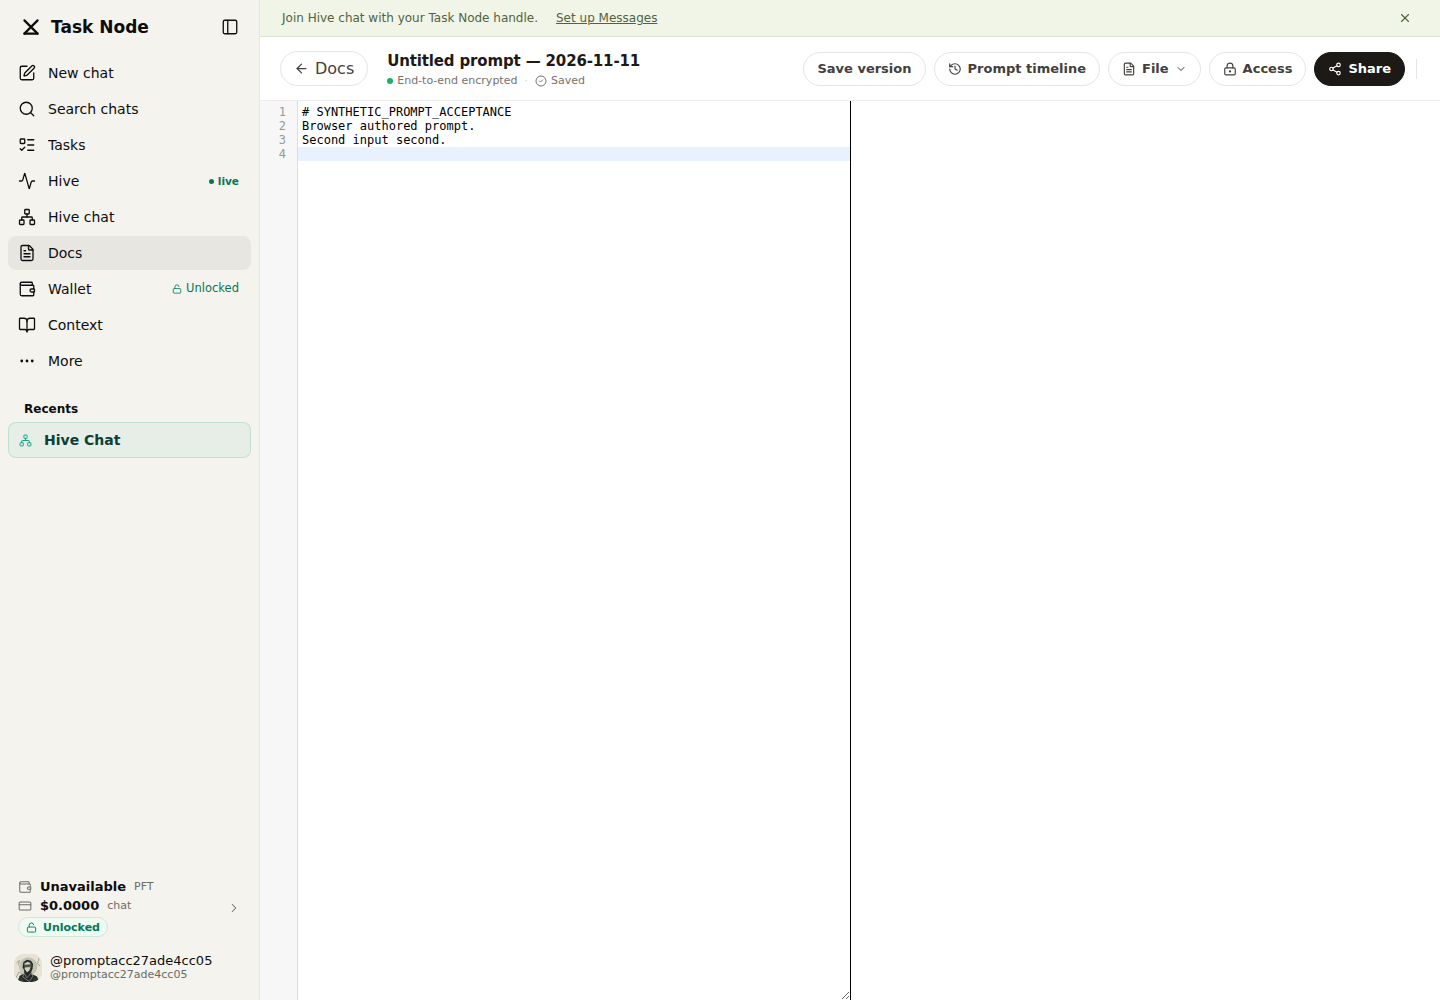
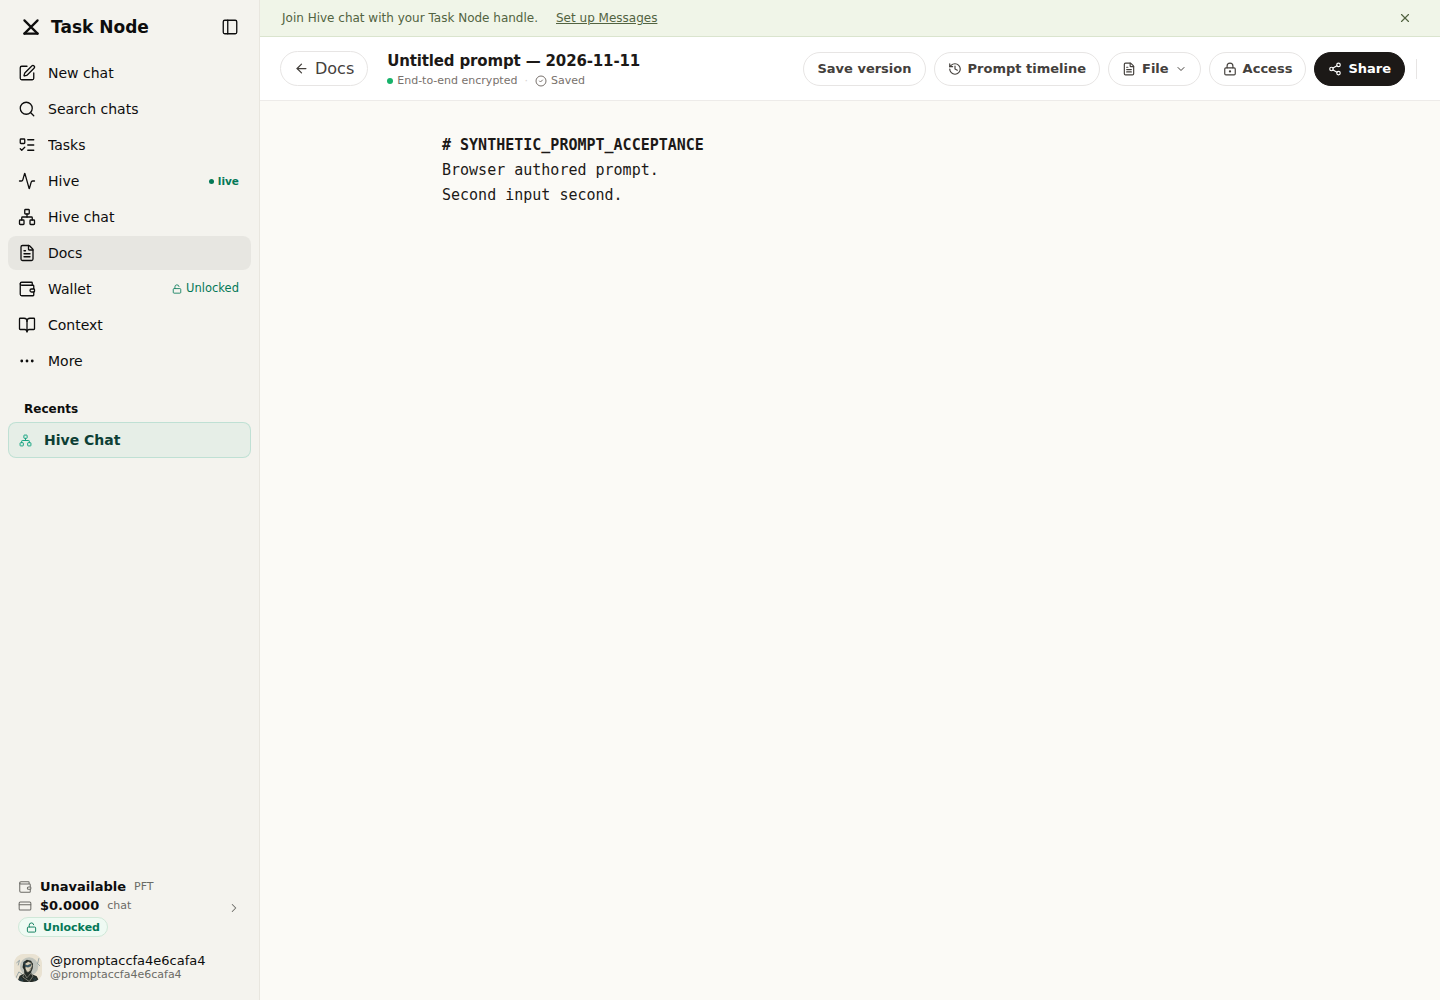
Make prompt pairing, timeline and activity usable end to end
- Add a local prompt_pair tool so pairing is one line pasted to the agent;
  the installer never puts a tasknode command on PATH, so the old
  terminal command could not be run. Unpaired tools now say what to do.
- Timeline numbers saved versions, shows who saved them (you or your
  agent) and opens the text inline.
- Activity shows time spent prompting in seconds, minutes and hours.
- Fingerprints are grouped for reading in the browser and terminal;
  devices show when they connected.
- Prompts outside the Prompts tab no longer claim history is unavailable.

Changed region(s): [[0.1875, 0.093, 0.5, 0.217], [0.0938, 0.93, 0.125, 0.992]]

diff --git a/src/features/docs-library/PromptTimeline.jsx b/src/features/docs-library/PromptTimeline.jsx
@@ -1,11 +1,12 @@
 import { useEffect, useState } from "react";
 import { History, RefreshCw, X } from "lucide-react";
+import { formatActiveTime, formatEventTime } from "./prompt-format";
 import { readPromptHistory } from "./prompt-library";
 
 const eventNames = {
   created: "Prompt created",
   version_saved: "Version saved",
-  agent_edit: "Agent edit",
+  agent_edit: "Agent edited the prompt",
   edit_session: "Editing session",
   tih_run: "Text improvement scores",
 };
@@ -39,7 +40,13 @@ export function PromptTimeline({ documentId, libraryKey, onClose }) {
     };
   }, [documentId, libraryKey, revision]);
 
-  const version = events.find((event) => event.eventId === selected && event.kind === "version_saved");
+  const versionNumbers = new Map(
+    events
+      .filter((event) => event.kind === "version_saved")
+      .reverse()
+      .map((event, index) => [event.eventId, index + 1]),
+  );
+  const actor = (event) => (event.by === "agent" ? "your agent" : "you");
   return (
     <aside className="prompt-timeline" aria-label="Prompt timeline">
       <header className="prompt-section-heading">
@@ -74,20 +81,33 @@ export function PromptTimeline({ documentId, libraryKey, onClose }) {
         <ol className="prompt-timeline-events">
           {events.map((event) => (
             <li key={event.eventId}>
-              <time dateTime={event.at}>{new Date(event.at).toLocaleString()}</time>
+              <time dateTime={event.at}>{formatEventTime(event.at)}</time>
               {event.kind === "version_saved" ? (
-                <button
-                  className="prompt-version-button"
-                  type="button"
-                  aria-pressed={selected === event.eventId}
-                  onClick={() => setSelected(event.eventId)}
-                >
-                  Read saved version
-                </button>
+                <>
+                  <div className="prompt-version-row">
+                    <strong>Version {versionNumbers.get(event.eventId)}</strong>
+                    <small>saved by {actor(event)}</small>
+                    <button
+                      className="prompt-version-button"
+                      type="button"
+                      aria-expanded={selected === event.eventId}
+                      onClick={() => setSelected(selected === event.eventId ? "" : event.eventId)}
+                    >
+                      {selected === event.eventId ? "Hide" : "Read"}
+                    </button>
+                  </div>
+                  {selected === event.eventId && (
+                    <pre className="prompt-saved-version" role="region" aria-label="Saved version text">
+                      {event.text}
+                    </pre>
+                  )}
+                </>
               ) : (
-                <strong>{eventNames[event.kind] || "Prompt activity"}</strong>
+                <strong>
+                  {event.kind === "created" ? `Prompt created by ${actor(event)}` : eventNames[event.kind] || "Prompt activity"}
+                </strong>
               )}
-              {event.kind === "edit_session" && <small>{event.activeSeconds} active seconds</small>}
+              {event.kind === "edit_session" && <small>{formatActiveTime(event.activeSeconds)} of typing</small>}
               {event.kind === "tih_run" && (
                 <small>
                   {event.before} → {event.after}
@@ -96,13 +116,6 @@ export function PromptTimeline({ documentId, libraryKey, onClose }) {
             </li>
           ))}
         </ol>
-      )}
-      {!error && version && (
-        <section className="prompt-saved-version" aria-label="Saved version text">
-          <h3>Saved version</h3>
-          <time dateTime={version.at}>{new Date(version.at).toLocaleString()}</time>
-          <pre>{version.text}</pre>
-        </section>
       )}
     </aside>
   );

diff --git a/src/features/docs-library/PromptDevices.jsx b/src/features/docs-library/PromptDevices.jsx
@@ -1,14 +1,24 @@
+import { formatEventTime } from "./prompt-format";
 import { useCallback, useEffect, useRef, useState } from "react";
 import { KeyRound, X } from "lucide-react";
 import { encryptForTaskNodeWallet } from "../collaboration/collaboration-client";
 import { deviceFingerprint, promptPairingCode } from "../../../packages/tasknode-cli/lib/prompt-device.mjs";
 import { promptRequest } from "./prompt-library";
 
+function pairingMessage(pairing) {
+  return `Pair my Task Node prompt library using prompt_pair with code ${pairing.code}`;
+}
+
+function groupedFingerprint(value) {
+  return String(value || "").replace(/(.{4})/g, "$1 ").trim();
+}
+
 export function PromptDevices({ libraryKey, accountId, walletSecret }) {
   const [open, setOpen] = useState(false);
   const [devices, setDevices] = useState([]);
   const [error, setError] = useState("");
   const [pairing, setPairing] = useState(null);
+  const [copied, setCopied] = useState(false);
   const [busy, setBusy] = useState("");
   const dialogRef = useRef(null);
   const buttonRef = useRef(null);
@@ -95,9 +105,12 @@ export function PromptDevices({ libraryKey, accountId, walletSecret }) {
           {active.map((device) => (
             <article className="prompt-device" key={device.deviceId}>
               <strong>{device.label}</strong>
-              <small>{device.approvedAt ? "Prompt access approved" : "Waiting for your approval"}</small>
+              <small>
+                {device.approvedAt ? "Prompt access approved" : "Waiting for your approval"}
+                {device.createdAt ? ` · connected ${formatEventTime(device.createdAt)}` : ""}
+              </small>
               <p className="prompt-fingerprint">
-                Fingerprint: <code>{device.fingerprint}</code>
+                Fingerprint: <code>{groupedFingerprint(device.fingerprint)}</code>
               </p>
               <div className="docs-folder-dialog-actions">
                 <button type="button" disabled={Boolean(busy)} onClick={() => act(device, false)}>
@@ -131,13 +144,19 @@ export function PromptDevices({ libraryKey, accountId, walletSecret }) {
           ))}
           {pairing && (
             <section className="prompt-pairing" aria-label="Finish agent pairing">
-              <h3>Finish pairing on your agent</h3>
-              <p>
-                Copy this command directly to your local agent. It verifies that the agent received your library key.
-              </p>
-              <pre
-                data-pairing-code={pairing.code}
-              >{`tasknode prompts-pair --device-id ${pairing.deviceId} --code ${pairing.code}`}</pre>
+              <h3>Last step: tell your agent</h3>
+              <p>Paste this line to the agent you just connected. It confirms the agent received your library key.</p>
+              <pre data-pairing-code={pairing.code}>{pairingMessage(pairing)}</pre>
+              <button
+                type="button"
+                className="prompt-version-button"
+                onClick={() => {
+                  navigator.clipboard?.writeText(pairingMessage(pairing));
+                  setCopied(true);
+                }}
+              >
+                {copied ? "Copied" : "Copy"}
+              </button>
             </section>
           )}
           {error && (

diff --git a/src/features/docs-library/DocsLibraryBrowser.jsx b/src/features/docs-library/DocsLibraryBrowser.jsx
@@ -131,7 +131,7 @@ export function DocsLibraryBrowser({ documents, decrypted, library, folderId, on
           return <article className="docs-file-row" key={entry.documentId}>
             <button className="docs-file-name" disabled={!metadata || !editorReady} onClick={() => onOpen(entry)}>
               <span className={`docs-file-icon ${isSheet ? "sheet" : "document"}`}>{isSheet ? <Table2 size={20} /> : <FileText size={20} />}</span>
-              <span><strong>{title}</strong><small>{metadata?.documentType === "prompt" ? promptError ? "Prompt · History unavailable" : `Prompt · ${promptEvents.filter(event => event.documentId === entry.documentId && event.kind === "version_saved").length} saved versions` : isSheet ? "Spreadsheet" : "Document"}{entry.taskIds?.length > 0 ? ` · ${entry.taskIds.length} linked ${entry.taskIds.length === 1 ? "task" : "tasks"}` : ""}{query && library.placements[entry.documentId] ? ` · ${folderTrail(library, library.placements[entry.documentId]).map((folder) => folder.name).join(" / ")}` : ""}</small></span>
+              <span><strong>{title}</strong><small>{metadata?.documentType === "prompt" ? promptError ? (filter === "prompts" ? "Prompt · History unavailable" : "Prompt") : `Prompt · ${promptEvents.filter(event => event.documentId === entry.documentId && event.kind === "version_saved").length} saved versions` : isSheet ? "Spreadsheet" : "Document"}{entry.taskIds?.length > 0 ? ` · ${entry.taskIds.length} linked ${entry.taskIds.length === 1 ? "task" : "tasks"}` : ""}{query && library.placements[entry.documentId] ? ` · ${folderTrail(library, library.placements[entry.documentId]).map((folder) => folder.name).join(" / ")}` : ""}</small></span>
             </button>
             <span className="docs-file-access" title={entry.owned ? entry.shares?.map((grant) => `${grant.recipient.displayName} · ${grant.accessRole} · ${grant.status}`).join(", ") : `Shared by ${entry.owner.displayName}`}>
               {filter === "prompts" ? (promptError ? "Unavailable" : promptEvents.filter(event => event.documentId === entry.documentId && event.kind === "version_saved").length) : <>{shared && <Users size={13} />}{entry.owned ? shared ? `Shared${entry.shares?.some((grant) => grant.status === "pending") ? " · pending" : ""}` : "Only you" : entry.owner.displayName}</>}

diff --git a/src/features/docs-library/docs-library.css b/src/features/docs-library/docs-library.css
@@ -204,9 +204,9 @@
 .prompt-timeline time, .prompt-timeline small { color: var(--tn-dark-muted, #7d796f); font-size: 11px; }
 .prompt-version-button { font: inherit; padding: 7px 10px; border: 1px solid var(--tn-dark-border, #e0ded5); border-radius: 7px; background: transparent; color: inherit; cursor: pointer; }
 .prompt-version-button[aria-pressed="true"], .prompt-version-button:hover { background: var(--tn-dark-hover, #eae8e0); }
-.prompt-saved-version { border: 1px solid var(--tn-dark-border, #e0ded5); border-radius: 8px; padding: 14px; }
-.prompt-saved-version h3 { margin: 0 0 8px; font-size: 13px; }
-.prompt-saved-version pre { white-space: pre-wrap; overflow-wrap: anywhere; font-size: 12px; line-height: 1.7; }
+.prompt-version-row { display: flex; align-items: baseline; gap: 8px; width: 100%; }
+.prompt-version-row .prompt-version-button { margin-left: auto; padding: 4px 10px; font-size: 12px; }
+.prompt-saved-version { align-self: stretch; margin: 4px 0 0; border: 1px solid var(--tn-dark-border, #e0ded5); border-radius: 8px; padding: 12px 14px; max-height: 46vh; overflow: auto; white-space: pre-wrap; overflow-wrap: anywhere; font-size: 12px; line-height: 1.7; }
 @media (max-width: 720px) {
   .prompt-section-heading { flex-wrap: wrap; }
   .prompt-activity-summary { gap: 12px; }
@@ -214,3 +214,5 @@
   .docs-editor-workspace:has(.prompt-timeline)>iframe { width: 100%; }
 }
 .prompt-pairing pre { white-space: pre-wrap; overflow-wrap: anywhere; font-size: 12px; line-height: 1.6; }
+
+.prompt-pairing .prompt-version-button { font-size: 12px; padding: 5px 12px; }

diff --git a/src/features/docs-library/PromptStatsPanel.jsx b/src/features/docs-library/PromptStatsPanel.jsx
@@ -1,5 +1,6 @@
 import { useState } from "react";
 import { ChevronDown } from "lucide-react";
+import { formatActiveTime } from "./prompt-format";
 import { promptStats } from "../../../packages/tasknode-cli/lib/prompt-stats.mjs";
 
 export function PromptStatsPanel({ events }) {
@@ -25,7 +26,7 @@ export function PromptStatsPanel({ events }) {
           <strong>{stats.totals.versions}</strong> versions saved
         </span>
         <span>
-          <strong>{stats.totals.activeMinutes.toFixed(2)}</strong> active minutes
+          <strong>{formatActiveTime(stats.totals.activeMinutes * 60)}</strong> spent prompting
         </span>
       </p>
       <details className="prompt-daily-details">
@@ -39,7 +40,7 @@ export function PromptStatsPanel({ events }) {
                 <th>Date (UTC)</th>
                 <th>Prompts created</th>
                 <th>Versions saved</th>
-                <th>Active minutes</th>
+                <th>Time prompting</th>
               </tr>
             </thead>
             <tbody>
@@ -48,7 +49,7 @@ export function PromptStatsPanel({ events }) {
                   <td>{row.day}</td>
                   <td>{row.created}</td>
                   <td>{row.versions}</td>
-                  <td>{row.activeMinutes.toFixed(2)}</td>
+                  <td>{formatActiveTime(row.activeMinutes * 60)}</td>
                 </tr>
               ))}
             </tbody>

diff --git a/server/repositories/prompt-devices.js b/server/repositories/prompt-devices.js
@@ -24,7 +24,7 @@ export async function listPromptDevices(accountId) {
   // Prompt devices require Postgres; ordinary agent connections also support runtime storage.
   if (!databaseEnabled()) return { ok: true, devices: [] };
   const { rows } = await query(
-    `SELECT device_id AS "deviceId", public_key AS "publicKey", fingerprint, label, approved_at AS "approvedAt", revoked_at AS "revokedAt"
+    `SELECT device_id AS "deviceId", public_key AS "publicKey", fingerprint, label, created_at AS "createdAt", approved_at AS "approvedAt", revoked_at AS "revokedAt"
     FROM prompt_devices WHERE account_id=$1 ORDER BY created_at DESC`,
     [accountId],
   );

diff --git a/src/features/docs-library/prompt-format.js b/src/features/docs-library/prompt-format.js
@@ -1,0 +1,18 @@
+export function formatActiveTime(seconds) {
+  const total = Math.max(0, Math.round(Number(seconds) || 0));
+  if (total < 60) return `${total} sec`;
+  const minutes = Math.round(total / 60);
+  if (minutes < 60) return `${minutes} min`;
+  const hours = Math.floor(minutes / 60);
+  const rest = minutes % 60;
+  return rest ? `${hours} h ${rest} min` : `${hours} h`;
+}
+
+export function formatEventTime(value) {
+  return new Date(value).toLocaleString(undefined, {
+    month: "short",
+    day: "numeric",
+    hour: "numeric",
+    minute: "2-digit",
+  });
+}

diff --git a/docs/prompts-sprint/README.md b/docs/prompts-sprint/README.md
@@ -16,9 +16,9 @@ Migrations: `160_prompt_documents.sql`, `161_prompt_devices.sql`, and forward mi
 
 The CLI requires Node 22 or newer. Run `tasknode connect` (or the installer) and complete normal account sign-in. It generates an X25519 device keypair locally, registers only its public key, saves the private device file with mode 0600, and registers **tasknode-prompts** beside the hosted **tasknode** MCP entry. The curl installer downloads a content-addressed manifest and verifies every runtime file, including the lockfile, before `npm ci --omit=dev --ignore-scripts`. Each attempt uses a private staging directory and publishes a complete immutable runtime; existing MCP entries keep their previous runtime if a transfer or hash check fails. Optional prompt enrollment failure does not prevent hosted connection completion or old-token cleanup.
 
-In the unlocked Docs browser, open **Agent access**, match the device fingerprint printed by the CLI and select **Approve prompt access**. The browser uses the same X25519/XChaCha20 envelope as Docs grants to wrap the prompt-library key to that device. Copy its **Finish pairing** command directly to your local agent. `tasknode prompts-pair --device-id ID --code CODE` compares the browser’s SHA-256 commitment over the library key, account and device identity with the decrypted candidate. Until this independent comparison succeeds all local prompt tools refuse access. The verified commitment is pinned in the private device file; changing keys requires new device enrollment. The code is never sent to the relay. Reopen **Pair local agent** to show it again. `/connect` lists these devices and can revoke them; the approval link opens Docs so the wallet remains the browser's unlock boundary. Each local tool call and relay request checks the terminal session and device grant. Revocation blocks future relay access but cannot erase content or pad capabilities already obtained by an authorized device.
+In the unlocked Docs browser, open **Agent access**, match the device fingerprint printed by the CLI and select **Approve prompt access**. The browser uses the same X25519/XChaCha20 envelope as Docs grants to wrap the prompt-library key to that device. Paste the pairing line it shows to your local agent. The agent’s `prompt_pair` tool (or `tasknode prompts-pair --device-id ID --code CODE` in a terminal) compares the browser’s SHA-256 commitment over the library key, account and device identity with the decrypted candidate. Until this independent comparison succeeds all local prompt tools refuse access. The verified commitment is pinned in the private device file; changing keys requires new device enrollment. The code is never sent to the relay. Reopen **Pair local agent** to show it again. `/connect` lists these devices and can revoke them; the approval link opens Docs so the wallet remains the browser's unlock boundary. Each local tool call and relay request checks the terminal session and device grant. Revocation blocks future relay access but cannot erase content or pad capabilities already obtained by an authorized device.
 
-Local tools: `prompt_list`, `prompt_create`, `prompt_read`, `prompt_edit`, `prompt_save_version`, `prompt_history`, `prompt_stats`, `prompt_log_tih_run`. Edits use unique exact-text replacement patches and reject stale/ambiguous matches. Reads and writes join PFDocs through ChainPad, with content decryption entirely in the local process. The hosted `/mcp` tool catalogue gains no prompt plaintext tool. TIH is run by the user's agent locally; its tool only records before/after scores.
+Local tools: `prompt_pair`, `prompt_list`, `prompt_create`, `prompt_read`, `prompt_edit`, `prompt_save_version`, `prompt_history`, `prompt_stats`, `prompt_log_tih_run`. Edits use unique exact-text replacement patches and reject stale/ambiguous matches. Reads and writes join PFDocs through ChainPad, with content decryption entirely in the local process. The hosted `/mcp` tool catalogue gains no prompt plaintext tool. TIH is run by the user's agent locally; its tool only records before/after scores.
 
 The CLI's pad adapter supports the unpassworded v2 `/code/` edit capabilities created by this sprint. Revalidate the capability encoding, signed code JSON, SmartJSONTransformer, and pinned ChainPad packages during the separate CryptPad upgrade track.
 

diff --git a/packages/tasknode-cli/README.md b/packages/tasknode-cli/README.md
@@ -65,4 +65,4 @@ The local server provides `prompt_list`, `prompt_create`, `prompt_read`, `prompt
 
 For manual stdio registration: `tasknode prompts-mcp --device-file /absolute/path/to/device.json`. Never put private key material or tokens in agent prompts. The curl installer retains its downloaded runtime modules and installs their pinned protocol dependencies with lifecycle scripts disabled.
 
-Prompt approval also requires browser-to-agent pairing. In unlocked Docs → Agent access, approve the matching device fingerprint, then copy the displayed `tasknode prompts-pair --device-id ID --code CODE` command directly to the agent. Local tools refuse unpaired keys and later key substitutions. The installer verifies a content-addressed runtime and committed lockfile, runs `npm ci --omit=dev --ignore-scripts`, and preserves previous runtimes if a download fails.
+Prompt approval also requires browser-to-agent pairing. In unlocked Docs → Agent access, approve the matching device fingerprint, then paste the displayed pairing line to the agent, which calls its local `prompt_pair` tool with the code (`tasknode prompts-pair --device-id ID --code CODE` does the same from a terminal). Local tools refuse unpaired keys and later key substitutions. The installer verifies a content-addressed runtime and committed lockfile, runs `npm ci --omit=dev --ignore-scripts`, and preserves previous runtimes if a download fails.
